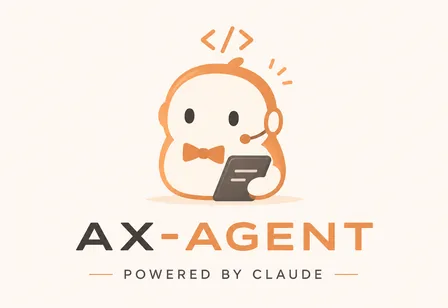
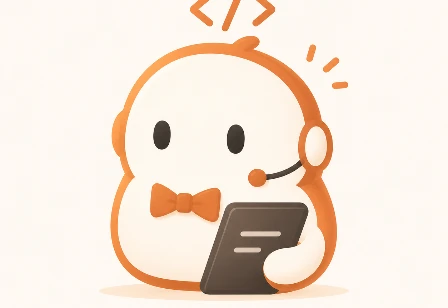
AX-agent 썸네일을 새 마스코트(img2)로 교체
원본을 img.png -> img2.png(헤드셋+태블릿 캐릭터)로 바꾸고 448x308(16:11) 센터크롭 webp 재생성. 워드마크가 사라져 Portfolio.tsx 설명 주석도 동기화.

diff --git a/Portfolio.tsx b/Portfolio.tsx
@@ -89,11 +89,11 @@ export const PROJECTS: Project[] = [
      owner's explicit decision, made after that was verified; do not "fix" it by
      deleting the href. Flipping the repo to public is what makes it work, and
      the repo already reads as if it were (its README carries a git clone URL).
-     thumb: the project's own AX-agent logo (D:\auto_agent\img.png), a 1254²
-     mascot+wordmark on a cream ground. Centre-cropped to 16:11 rather than
-     letterboxed — the mark's content sits in the middle 708px of height, so the
-     crop only eats the surplus top/bottom cream and leaves the whole mark and
-     the "AX-AGENT" wordmark uncut. */
+     thumb: the project's own AX-agent mascot (D:\auto_agent\img2.png), a 1254²
+     headset-and-tablet character on a cream ground. Centre-cropped to 16:11
+     (448x308, object-fit:cover) rather than letterboxed — the mascot sits in the
+     middle band, so the crop only eats the surplus top/bottom cream and leaves
+     the whole figure uncut. */
   { no: "04", name: "AX-agent", desc: "Claude Code 서브에이전트 77종 + 훅 자동화", role: "Team Lead", year: "2026", stack: ["Anthropic API"], href: "https://github.com/rhl0509/claude-agents", thumb: "/thumbs/ax-agent.webp" },
   /* real (D:\stock_tracker) — FastAPI + React client + MySQL. The 머신러닝 half
      is XGBoost_v2/, and the three nouns in desc are what it actually pulls:
